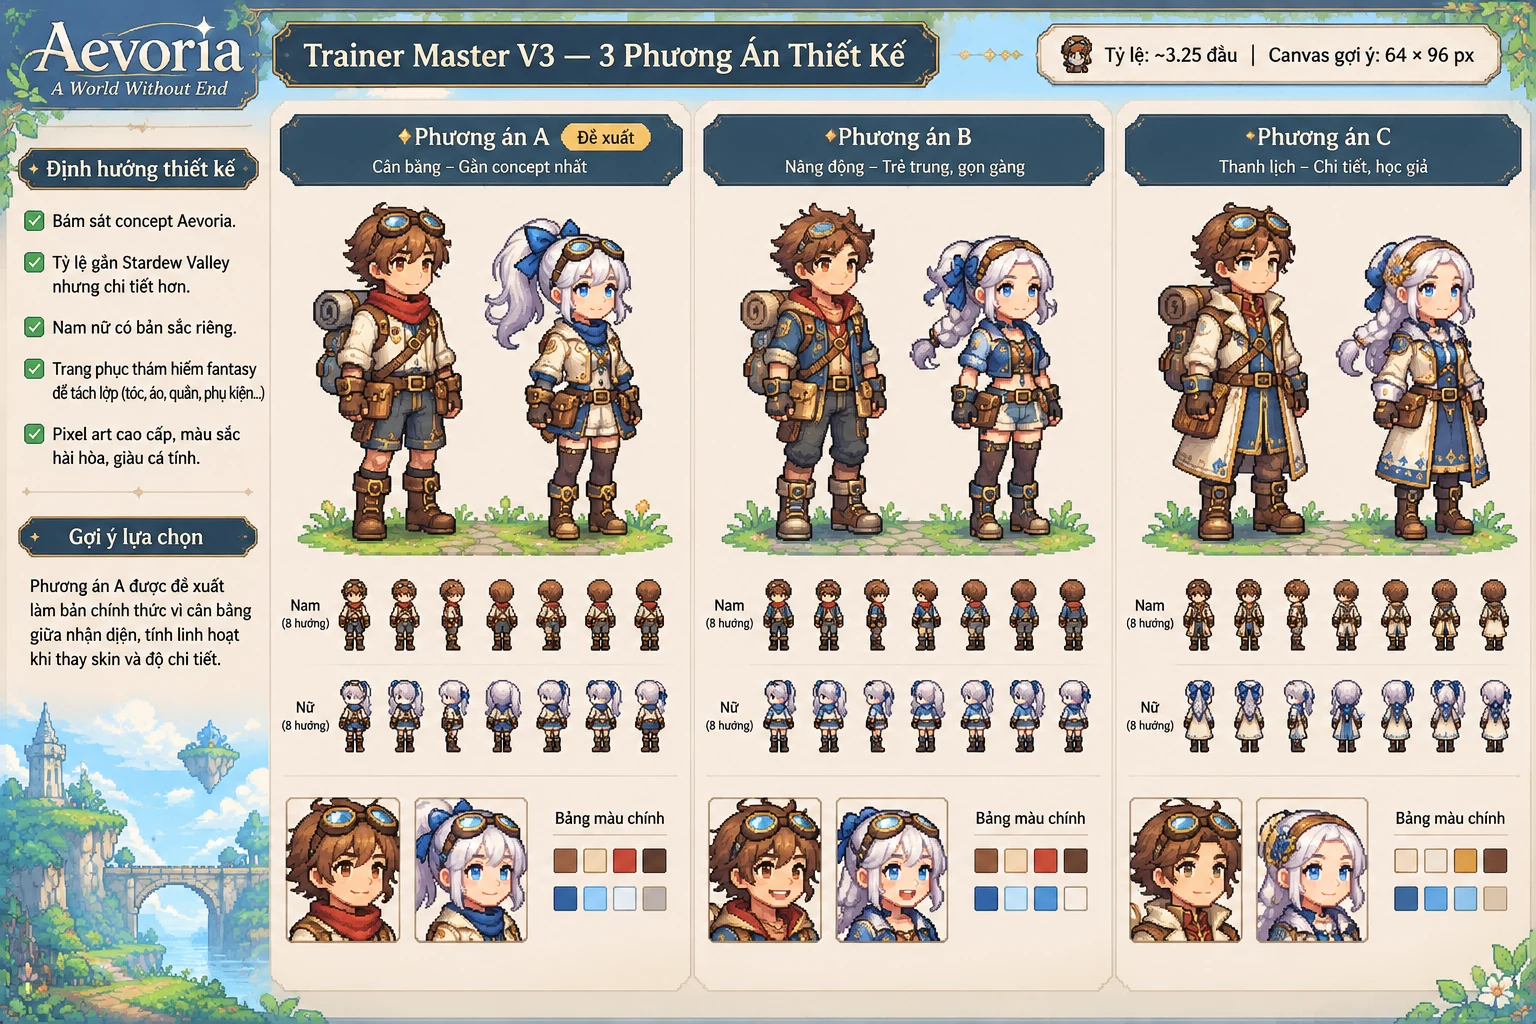
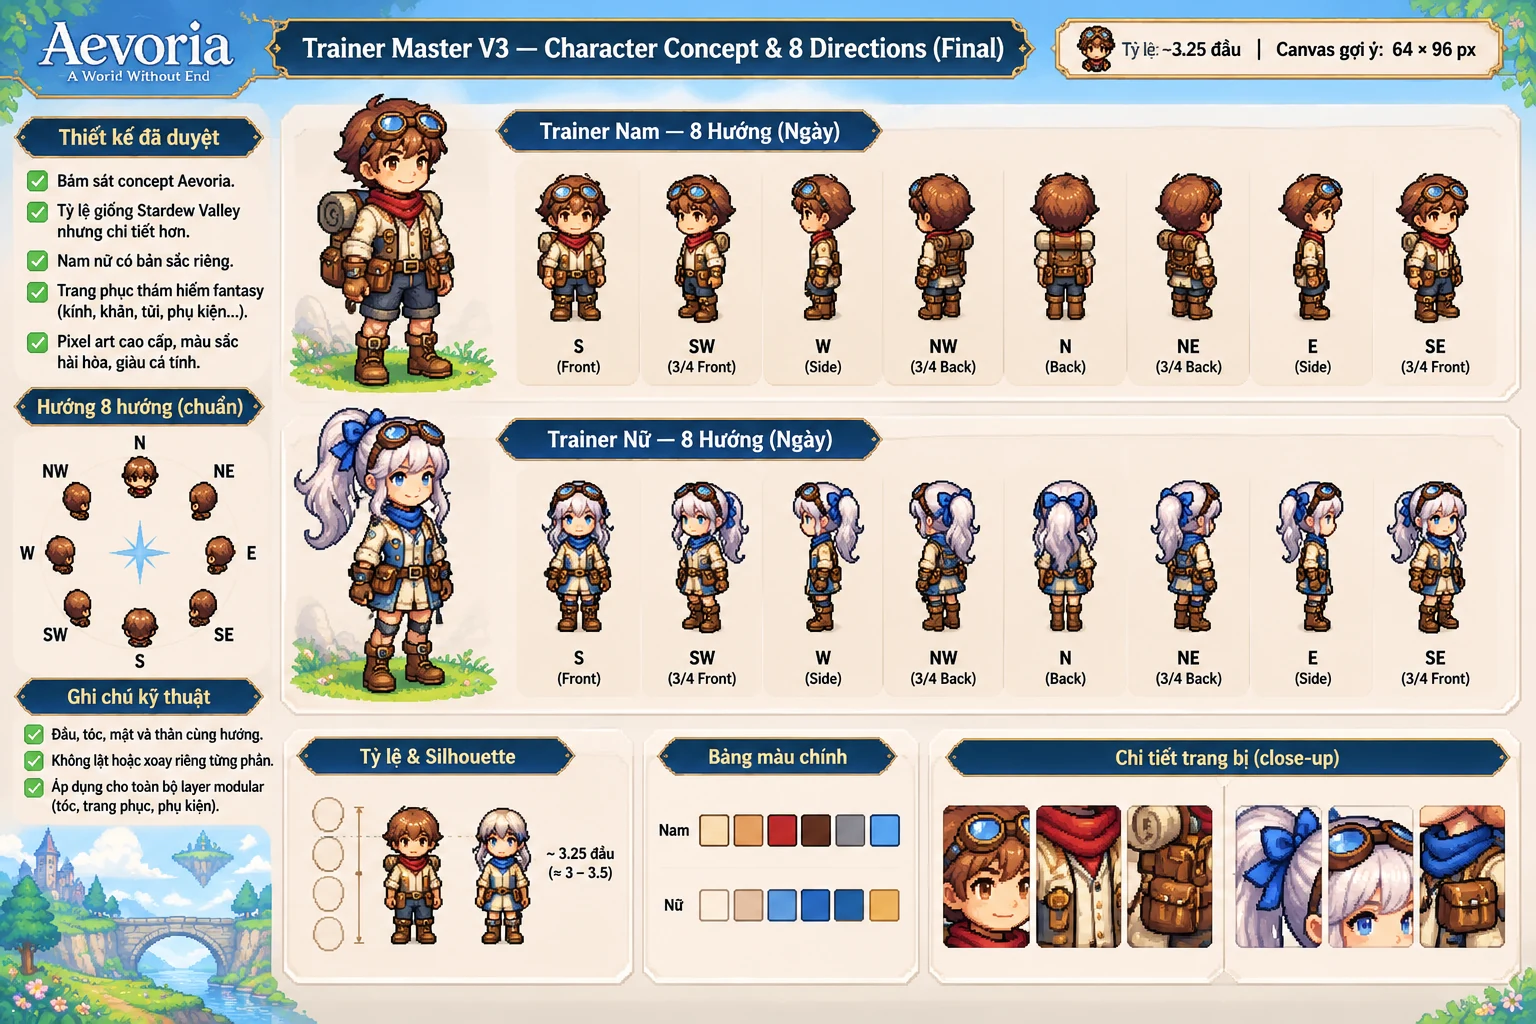
art: replace Trainer Master V3 with final 8-direction reference
Hash-verified owner board; adds GATE 02 task with direction review
(female side ponytail flips between directions).

diff --git a/tools/asset-pipeline/check_master.py b/tools/asset-pipeline/check_master.py
@@ -13,7 +13,7 @@ import sys
 from PIL import Image, ImageDraw
 
 ROOT = os.path.abspath(os.path.join(os.path.dirname(__file__), '..', '..'))
-ALLOWED = {(48, 64), (64, 80), (64, 96)}
+ALLOWED = {(48, 64), (64, 80), (64, 96)}  # 64x96 = V3 board recommendation
 MAX_COLOURS = 48
 
 

diff --git a/docs/HANDOFF.md b/docs/HANDOFF.md
@@ -3,11 +3,11 @@ Checkpoint 005 | 2026-11-25 | Pre-production
 Active branch: **feature/modular-trainer** (read this file on that branch, not main). Last implementation commit: 8745215 (asset pipeline). Handoff/docs commit follows it; use `git log -1` + `git ls-remote origin` for the real head.
 Active task: **ART-003-G01 — Trainer Character Master (GATE 01)**, docs/tasks/ART-003-G01.md. Full owner requirements: docs/tasks/ART-003-spec.md. ART-003-B01 is ON HOLD.
 
-## Update 2026-11-25 — Trainer Master V3 approved (fed477a, docs/tasks/ART-003-V3-APPROVAL.md)
-- Owner approved V3 visual direction; Option A = recommended baseline. Active gate is now **GATE 02 Direction Master** (male/female, 8 directions, 1x + 4x preview, owner approval before modular separation).
-- **Reference imported and verified:** `assets/concepts/trainer-master-v3.webp` (1536x1024, 345,188 B, SHA-256 c4deb5942bbdf913aa669928480f22a14737efe0792b1c020dcd5fef8de1bc18 = approval doc). Registry `concept.trainer_master.v3` = in_repo. This is a concept board; its miniature turnaround is illustrative, not a verified 8-direction sprite set.
-- **GATE 02 images:** Claude Code has no image-generation tool, so it cannot draw the 8-direction master at the approved quality. Per owner rule, ChatGPT (image tool) produces the Direction Master; Claude Code/Codex handle import, hash check, `check_master.py`, previews, layer separation, animation and integration. Do not redesign the approved character; do not reuse rejected sprites.
-- Next action: ChatGPT produces the GATE 02 Direction Master from Option A of `assets/concepts/trainer-master-v3.webp` (male + female, S, SW, W, NW, N, NE, E, SE, transparent PNG, same canvas, suggested 64x96 as on the board) into `assets/concepts/trainer-gate02/`. Claude Code then runs `check_master.py` (allow 64x96), builds 1x + 4x previews and waits for owner approval before GATE 03.
+## Update 2026-11-25 — Trainer Master V3 final reference (GATE 02 active)
+- Authoritative reference: `assets/concepts/trainer-master-v3.webp` = final "Character Concept & 8 Directions" board, 1536x1024, 288,542 B, SHA-256 b6fbbd9efa7d6217354b0f2f577a255be7e80c4d89bd831984c8c0d3fa58be50 (verified). Replaces all older trainer references (3-option board c4deb594… only in history at ae0636f). Option A design.
+- Direction check (docs/tasks/ART-003-G02.md): male consistent in all 8 directions; **female side ponytail/bow flips** (S unclear, SW and NE mirrored, N centred). Fix before sprites: tie stays on her right side in every direction; never mirror her hair, bow or straps.
+- Board is concept art, not 64x96 sprites. GATE 02 sprite set (16 PNG, 64x96) is still to be made by ChatGPT or an artist; Claude Code has no image generation. Animation is blocked until the GATE 02 sprites are owner-approved and GATE 03 separation is done.
+- Next action: ChatGPT produces `assets/concepts/trainer-gate02/*` per ART-003-G02 (with the ponytail fix). Then Claude Code runs `check_master.py`, builds 1x + 4x and direction-consistency previews and asks the owner to approve.
 
 ## Owner verdict this session (binding — D016, D017)
 - The procedural trainer sprites Claude Code generated with scripts are **NOT approved artistically** (v1 too chibi/bobblehead; v2 too thin, long and stiff). Do not reuse them as a design base. They are not in Git.

diff --git a/docs/tasks/ART-003-G02.md b/docs/tasks/ART-003-G02.md
@@ -1,0 +1,32 @@
+# ART-003-G02 — Trainer Direction Master (GATE 02)
+Status: IN REVIEW — reference board approved by owner; production direction sprites NOT made yet. Branch: feature/modular-trainer. Do not merge main.
+Image work: ChatGPT (image tool) or an artist. Claude Code/Codex: import, QA, previews, later layer separation. Nobody redesigns the approved character.
+
+## Authoritative reference (replaces all earlier trainer references)
[1 lines of base64/hex data omitted]
+- Superseded in Git history only: V3 three-option board (`c4deb594…bc18`, commit ae0636f) and an intermediate direction board (`749be646…58df`, never committed; owner said it still had errors).
+- The board is concept art (soft edges, cream background, figures ~80 px tall, not on a 64x96 pixel grid). It is the design reference for the sprites, not the sprites themselves.
+
+## Direction check of the board (Claude Code, 2026-11-25, crops at 2x)
+Convention: S, SW, W, NW, N, NE, E, SE. Character right = screen-left when facing S.
+- **Male: PASS for direction consistency.** Head, face, torso, arms and legs face the same way in all 8. Goggles, red scarf, bedroll backpack, belt pouches, blue shorts and boots stay consistent. Backpack is visible on the back in every back/side view.
+- **Female: FAIL — side ponytail flips between directions.** The large 3/4 hero figure puts the ponytail/bow on her RIGHT side (screen-left in the SE-facing pose). The direction strip does not keep that side:
+  - SE: screen-left = her right ✓
+  - SW: screen-right = her left ✗ (looks like a horizontal flip of SE)
+  - NE: screen-left = her left ✗ (looks like a flip of NW)
+  - NW: screen-right = her right ✓
+  - N: tail and bow centred ✗ (should sit off-centre, screen-right)
+  - S: no clear side tail ✗ (should show the tail/bow on screen-left)
+  - W/E: plausible (tail hangs behind the head), check the bow side once fixed.
+- Rule for the fix: the side tie stays on her **right** side in every direction (screen-left at S, screen-right at N). Do not mirror W↔E, SW↔SE or NW↔NE for her hair, bow, goggles strap or satchel.
+- Both: confirm satchel/pouch sides and the scarf knot stay on the same body side; the male bedroll and female bow are the asymmetry markers to check first.
+
+## Deliverables
+- `assets/concepts/trainer-gate02/trainer_{m,f}_{s,sw,w,nw,n,ne,e,se}_64x96.png`: 16 transparent PNG sprites on the same 64x96 canvas with the feet pivot at bottom centre (2 px margin). Hard alpha, ≤48 colours, no blur or anti-aliasing. Drawn from the approved board at sprite resolution (generate, downscale with nearest-neighbour, then clean up by hand), with the female ponytail fixed as above.
+- `assets/concepts/trainer-gate02/PROVENANCE.md`: tool, prompt and manual edits for each file.
+
+## Verification
+```
+python tools/asset-pipeline/check_master.py assets/concepts/trainer-gate02/*.png
+```
+Claude Code then builds an 8-direction 1x + 4x preview and a direction-consistency sheet for the owner. A technical PASS is not art approval. GATE 03 (layer separation) starts only after the owner approves.

diff --git a/docs/tasks/ART-003-V3-APPROVAL.md b/docs/tasks/ART-003-V3-APPROVAL.md
@@ -15,3 +15,6 @@ Previous trainer sprite drafts rejected: over-chibi first pass and overly thin/r
 
 ## Next gate
 After importing exact reference, produce a small male/female Direction Master preview in eight actual directions S, SW, W, NW, N, NE, E, SE. Show at 1x and nearest-neighbor 4x; preserve silhouette, accessories, palette and asymmetric detail. Obtain owner approval before modular separation, then animation. Keep body/clothing/hair/gear compatible with mount/swim/fly/Bond/faint poses; separate rider and mount. Concept WebP Q88; production pixel assets lossless WebP/PNG. Update branch handoff/asset registry after verification. No merge main, no overwrite of local work. This note supplements ART-003-B01; newer visual gate supersedes earlier placeholder art production direction.
+
+## Superseded reference (2026-11-25)
+The owner replaced the board with the final "Character Concept & 8 Directions" version: 1536x1024, 288,542 B, SHA-256 b6fbbd9efa7d6217354b0f2f577a255be7e80c4d89bd831984c8c0d3fa58be50 (same path). The hash above (c4deb594…) is historical, kept in commit ae0636f. Direction check and GATE 02 task: docs/tasks/ART-003-G02.md.

diff --git a/docs/CHANGELOG.md b/docs/CHANGELOG.md
@@ -1,4 +1,7 @@
 # AV-TWWE — Changelog
+## Checkpoint 007 — Final V3 direction reference (2026-11-25)
+- trainer-master-v3.webp replaced by the owner's final 8-direction board (SHA-256 b6fbbd9e…be50). Direction check: male OK, female ponytail side flips. GATE 02 task ART-003-G02 created.
+
 ## Checkpoint 006 — Trainer Master V3 reference in Git (2026-11-25)
 - assets/concepts/trainer-master-v3.webp imported, SHA-256 verified against ART-003-V3-APPROVAL.md (fed477a). Option A = baseline. GATE 02 images assigned to ChatGPT (no image generation in Claude Code).
 
